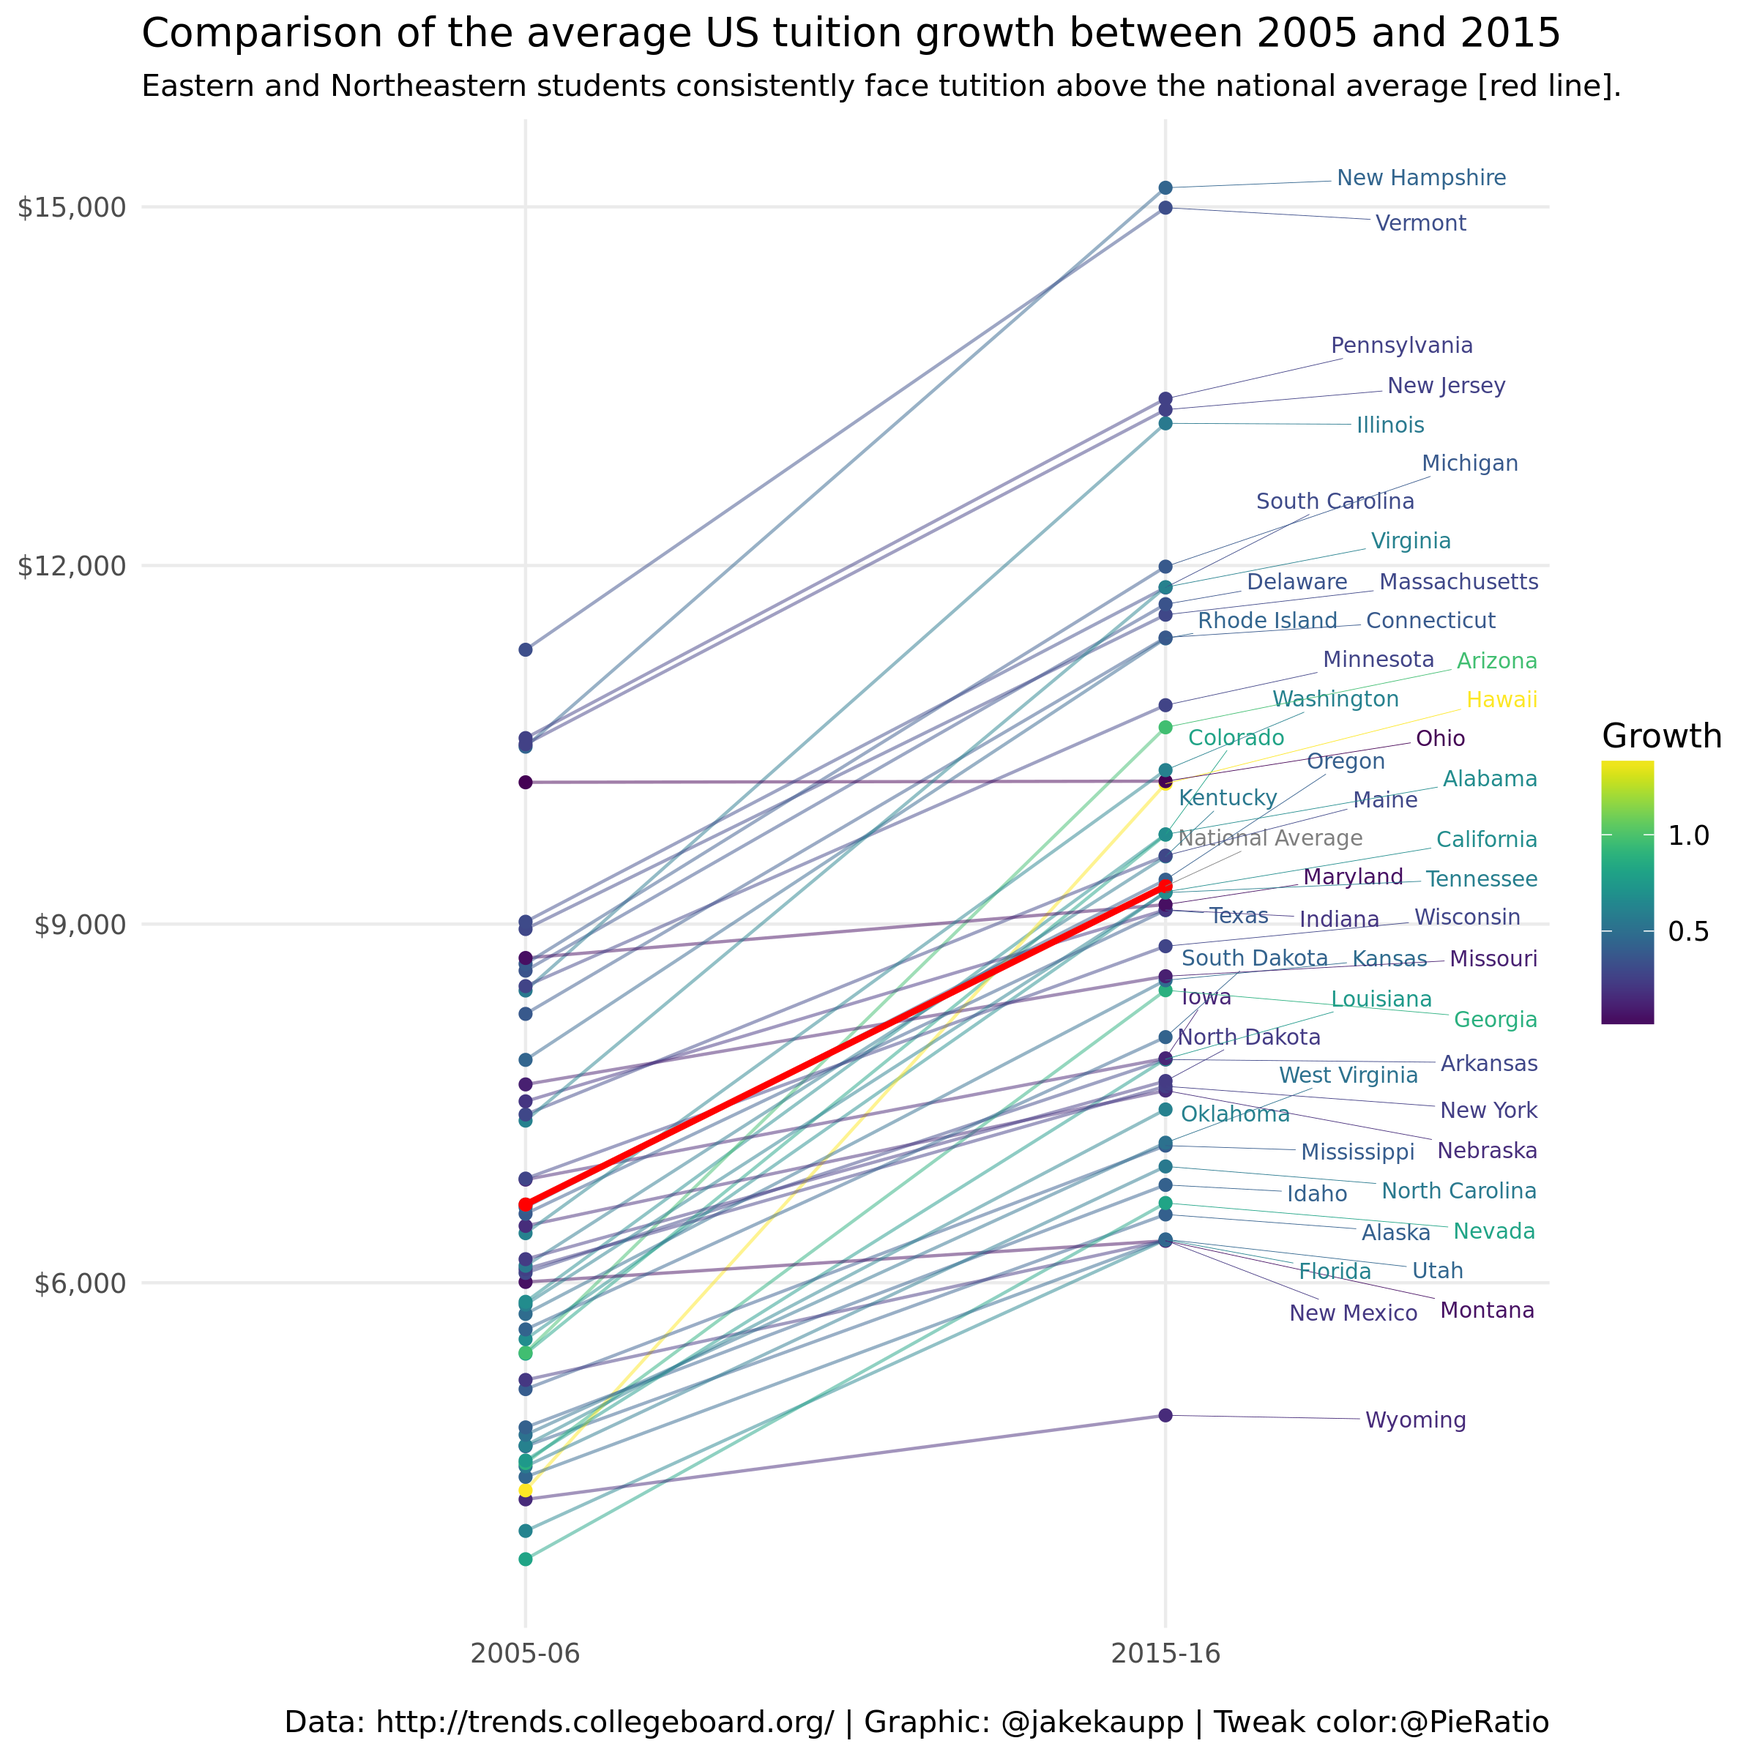
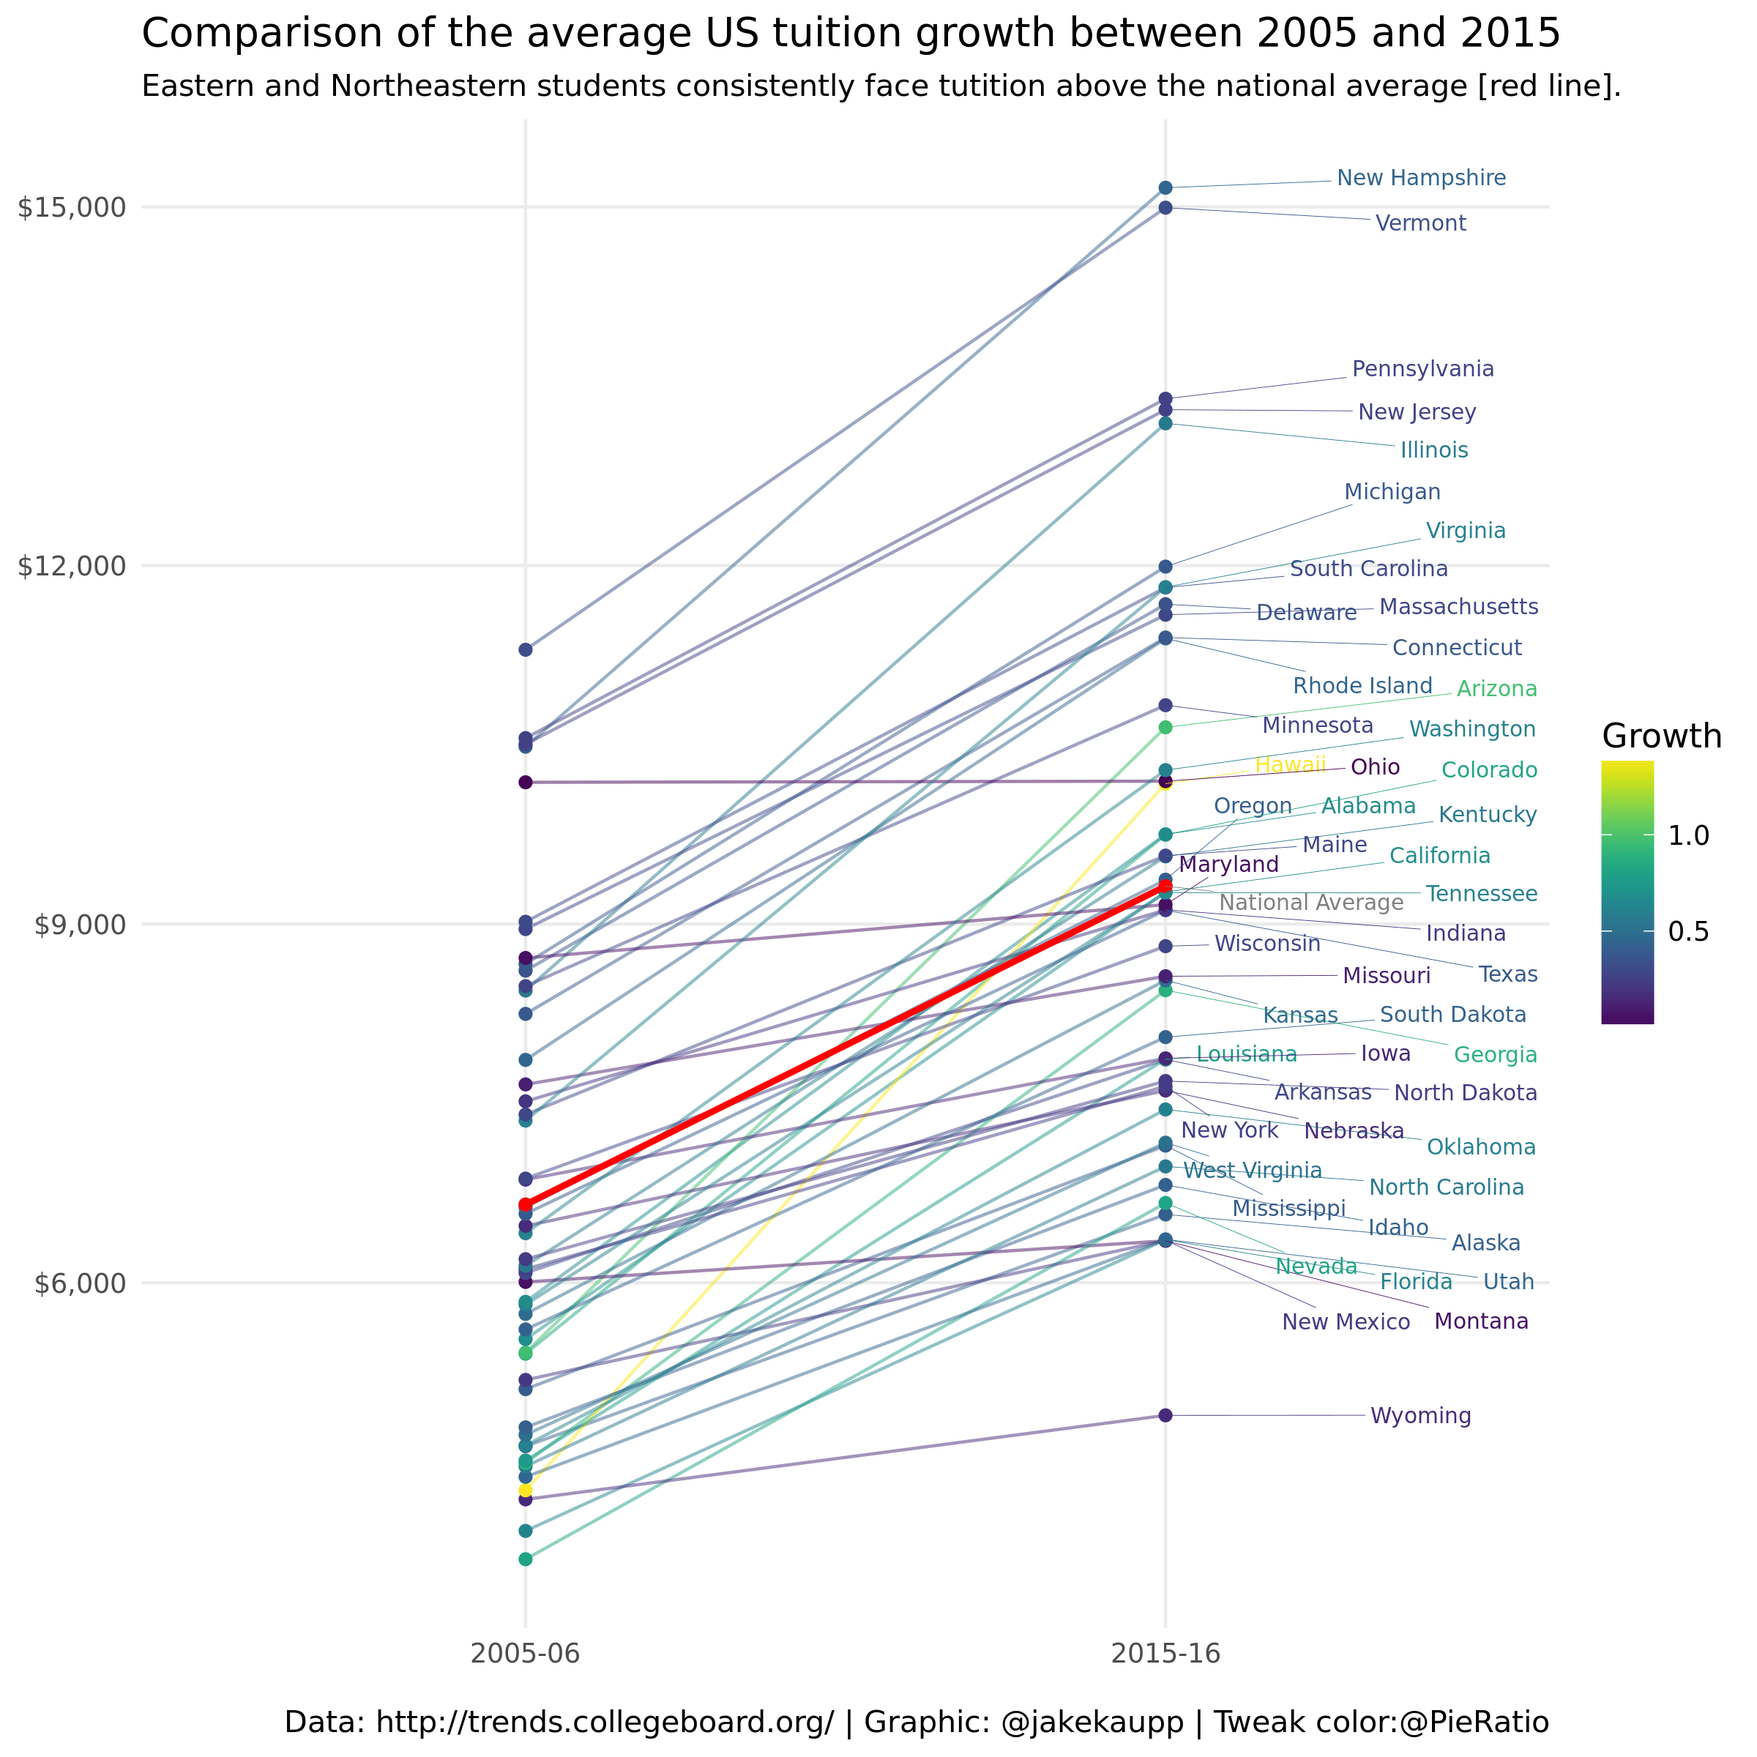
Fixed links and credit

Changed region(s): [[0.6562, 0.1875, 0.875, 0.75], [0.7812, 0.7812, 0.8438, 0.8125]]

diff --git a/public/post/tidytuesday-tuition/index.html b/public/post/tidytuesday-tuition/index.html
@@ -17,7 +17,7 @@
       
     
   
-  <meta name="description" content="I found a great example on tidyTuesday that I wanted to work on. A simple embedded line plot that uses color in a creative way. All of the R code for this is on GitHub. I did not add much. All I wanted was some idea of how the growth rates correspond over the period. I added a cumulative growth rate and encoded the color scheme with it enabling me to play with viridis.">
+  <meta name="description" content="I found a great example on tidyTuesday that I wanted to work on. @JKaupp Jake Kaupp used this very cool line plot to show the change in average tuition over a ten year period. I loved it. The only tweak is a simple embedded line plot that uses color in a creative way to show growth rates. All of the R code for this is on [@JKaupp-GitHub](https://github.com/jkaupp). The specific file is here.">
 
   
   <link rel="alternate" hreflang="en-us" href="https://rwalker.netlify.com/post/tidytuesday-tuition/">
@@ -81,7 +81,7 @@
   <meta property="og:site_name" content="Robert W. Walker">
   <meta property="og:url" content="https://rwalker.netlify.com/post/tidytuesday-tuition/">
   <meta property="og:title" content="tidyTuesday - Tuition | Robert W. Walker">
-  <meta property="og:description" content="I found a great example on tidyTuesday that I wanted to work on. A simple embedded line plot that uses color in a creative way. All of the R code for this is on GitHub. I did not add much. All I wanted was some idea of how the growth rates correspond over the period. I added a cumulative growth rate and encoded the color scheme with it enabling me to play with viridis.">
+  <meta property="og:description" content="I found a great example on tidyTuesday that I wanted to work on. @JKaupp Jake Kaupp used this very cool line plot to show the change in average tuition over a ten year period. I loved it. The only tweak is a simple embedded line plot that uses color in a creative way to show growth rates. All of the R code for this is on [@JKaupp-GitHub](https://github.com/jkaupp). The specific file is here.">
   <meta property="og:locale" content="en-us">
   
   <meta property="article:published_time" content="2018-04-03T00:00:00&#43;00:00">
@@ -341,7 +341,7 @@
 
 
     <div class="article-style" itemprop="articleBody">
-      <p>I found a great example on tidyTuesday that I wanted to work on. A simple embedded line plot that uses color in a creative way. All of the R code for this is on <a href="https://raw.githubusercontent.com/jkaupp/tidyweek/master/R/plot.R">GitHub</a>. I did not add much. All I wanted was some idea of how the growth rates correspond over the period. I added a cumulative growth rate and encoded the color scheme with it enabling me to play with <em>viridis</em>. The <em>col_tab</em> is my creation.</p>
+      <p>I found a great example on tidyTuesday that I wanted to work on. <code>@JKaupp</code> Jake Kaupp used this very cool line plot to show the change in average tuition over a ten year period. I loved it. The only tweak is a simple embedded line plot that uses color in a creative way to show growth rates. All of the R code for this is on <span class="citation">[@JKaupp-GitHub]</span>(<a href="https://github.com/jkaupp" class="uri">https://github.com/jkaupp</a>). The specific file is <a href="https://raw.githubusercontent.com/jkaupp/tidyweek/master/R/plot.R">here</a>. I did not add much. All I wanted was some idea of how the growth rates correspond over the period. I added a cumulative growth rate and encoded the color scheme with it enabling me to play with <em>viridis</em>. The <em>col_tab</em> is my creation. I also moved around the labels so that everyone gets a color coded label and we can see who is where, more or less. Enjoy!</p>
 <pre class="r"><code>library(here)
 library(readxl)
 library(tidyverse)
@@ -429,7 +429,7 @@ print(my.plot)</code></pre>
         
         <li><a href="/post/panel-data-r-packages/">Longitudinal Panel Data R Packages</a></li>
         
-        <li><a href="/post/correlation-function/">Correlation Function</a></li>
+        <li><a href="/post/black-boxes-a-gender-gap-example/">Black Boxes: A Gender Gap Example</a></li>
         
       </ul>
     </div>

diff --git a/content/post/2018-04-03-tidytuesday-tuition.html b/content/post/2018-04-03-tidytuesday-tuition.html
@@ -14,7 +14,7 @@ tags:
 
 
 
-<p>I found a great example on tidyTuesday that I wanted to work on. A simple embedded line plot that uses color in a creative way. All of the R code for this is on <a href="https://raw.githubusercontent.com/jkaupp/tidyweek/master/R/plot.R">GitHub</a>. I did not add much. All I wanted was some idea of how the growth rates correspond over the period. I added a cumulative growth rate and encoded the color scheme with it enabling me to play with <em>viridis</em>. The <em>col_tab</em> is my creation.</p>
+<p>I found a great example on tidyTuesday that I wanted to work on. <code>@JKaupp</code> Jake Kaupp used this very cool line plot to show the change in average tuition over a ten year period. I loved it. The only tweak is a simple embedded line plot that uses color in a creative way to show growth rates. All of the R code for this is on <span class="citation">[@JKaupp-GitHub]</span>(<a href="https://github.com/jkaupp" class="uri">https://github.com/jkaupp</a>). The specific file is <a href="https://raw.githubusercontent.com/jkaupp/tidyweek/master/R/plot.R">here</a>. I did not add much. All I wanted was some idea of how the growth rates correspond over the period. I added a cumulative growth rate and encoded the color scheme with it enabling me to play with <em>viridis</em>. The <em>col_tab</em> is my creation. I also moved around the labels so that everyone gets a color coded label and we can see who is where, more or less. Enjoy!</p>
 <pre class="r"><code>library(here)
 library(readxl)
 library(tidyverse)

diff --git a/public/categories/r/index.html b/public/categories/r/index.html
@@ -255,7 +255,7 @@
     <h2><a href="https://rwalker.netlify.com/post/tidytuesday-tuition/">tidyTuesday - Tuition</a></h2>
     <div class="article-style">
       
-      I found a great example on tidyTuesday that I wanted to work on. A simple embedded line plot that uses color in a creative way. All of the R code for this is on GitHub. I did not add much. All I wanted was some idea of how the growth rates correspond over the period. I added a cumulative growth rate and encoded the color scheme with it enabling me to play with viridis.
+      I found a great example on tidyTuesday that I wanted to work on. @JKaupp Jake Kaupp used this very cool line plot to show the change in average tuition over a ten year period. I loved it. The only tweak is a simple embedded line plot that uses color in a creative way to show growth rates. All of the R code for this is on <a href="https://github.com/jkaupp" target="_blank">@JKaupp-GitHub</a>. The specific file is here.
       
     </div>
   </div>

diff --git a/public/categories/tidyverse/index.html b/public/categories/tidyverse/index.html
@@ -255,7 +255,7 @@
     <h2><a href="https://rwalker.netlify.com/post/tidytuesday-tuition/">tidyTuesday - Tuition</a></h2>
     <div class="article-style">
       
-      I found a great example on tidyTuesday that I wanted to work on. A simple embedded line plot that uses color in a creative way. All of the R code for this is on GitHub. I did not add much. All I wanted was some idea of how the growth rates correspond over the period. I added a cumulative growth rate and encoded the color scheme with it enabling me to play with viridis.
+      I found a great example on tidyTuesday that I wanted to work on. @JKaupp Jake Kaupp used this very cool line plot to show the change in average tuition over a ten year period. I loved it. The only tweak is a simple embedded line plot that uses color in a creative way to show growth rates. All of the R code for this is on <a href="https://github.com/jkaupp" target="_blank">@JKaupp-GitHub</a>. The specific file is here.
       
     </div>
   </div>

diff --git a/public/tags/r/index.html b/public/tags/r/index.html
@@ -255,7 +255,7 @@
     <h2><a href="https://rwalker.netlify.com/post/tidytuesday-tuition/">tidyTuesday - Tuition</a></h2>
     <div class="article-style">
       
-      I found a great example on tidyTuesday that I wanted to work on. A simple embedded line plot that uses color in a creative way. All of the R code for this is on GitHub. I did not add much. All I wanted was some idea of how the growth rates correspond over the period. I added a cumulative growth rate and encoded the color scheme with it enabling me to play with viridis.
+      I found a great example on tidyTuesday that I wanted to work on. @JKaupp Jake Kaupp used this very cool line plot to show the change in average tuition over a ten year period. I loved it. The only tweak is a simple embedded line plot that uses color in a creative way to show growth rates. All of the R code for this is on <a href="https://github.com/jkaupp" target="_blank">@JKaupp-GitHub</a>. The specific file is here.
       
     </div>
   </div>

diff --git a/public/tags/tidytuesday/index.html b/public/tags/tidytuesday/index.html
@@ -255,7 +255,7 @@
     <h2><a href="https://rwalker.netlify.com/post/tidytuesday-tuition/">tidyTuesday - Tuition</a></h2>
     <div class="article-style">
       
-      I found a great example on tidyTuesday that I wanted to work on. A simple embedded line plot that uses color in a creative way. All of the R code for this is on GitHub. I did not add much. All I wanted was some idea of how the growth rates correspond over the period. I added a cumulative growth rate and encoded the color scheme with it enabling me to play with viridis.
+      I found a great example on tidyTuesday that I wanted to work on. @JKaupp Jake Kaupp used this very cool line plot to show the change in average tuition over a ten year period. I loved it. The only tweak is a simple embedded line plot that uses color in a creative way to show growth rates. All of the R code for this is on <a href="https://github.com/jkaupp" target="_blank">@JKaupp-GitHub</a>. The specific file is here.
       
     </div>
   </div>

diff --git a/public/tags/tidyverse/index.html b/public/tags/tidyverse/index.html
@@ -255,7 +255,7 @@
     <h2><a href="https://rwalker.netlify.com/post/tidytuesday-tuition/">tidyTuesday - Tuition</a></h2>
     <div class="article-style">
       
-      I found a great example on tidyTuesday that I wanted to work on. A simple embedded line plot that uses color in a creative way. All of the R code for this is on GitHub. I did not add much. All I wanted was some idea of how the growth rates correspond over the period. I added a cumulative growth rate and encoded the color scheme with it enabling me to play with viridis.
+      I found a great example on tidyTuesday that I wanted to work on. @JKaupp Jake Kaupp used this very cool line plot to show the change in average tuition over a ten year period. I loved it. The only tweak is a simple embedded line plot that uses color in a creative way to show growth rates. All of the R code for this is on <a href="https://github.com/jkaupp" target="_blank">@JKaupp-GitHub</a>. The specific file is here.
       
     </div>
   </div>

diff --git a/public/index.html b/public/index.html
@@ -1228,7 +1228,7 @@ url('https://rwalker.netlify.com/img/headers/bubbles-wide.jpg');
   </h3>
   <div class="article-style" itemprop="articleBody">
     
-    I found a great example on tidyTuesday that I wanted to work on. A simple embedded line plot that uses color in a creative way. All of the R code for this is on GitHub. I did not add much. All I wanted was some idea of how the growth rates correspond over the period. I added a cumulative growth rate and encoded the color scheme with it enabling me to play with viridis.
+    I found a great example on tidyTuesday that I wanted to work on. @JKaupp Jake Kaupp used this very cool line plot to show the change in average tuition over a ten year period. I loved it. The only tweak is a simple embedded line plot that uses color in a creative way to show growth rates. All of the R code for this is on [@JKaupp-GitHub](https://github.com/jkaupp). The specific file is here.
     
   </div>
   <p class="read-more" itemprop="mainEntityOfPage">

diff --git a/public/post/index.html b/public/post/index.html
@@ -299,7 +299,7 @@
   </h3>
   <div class="article-style" itemprop="articleBody">
     
-    I found a great example on tidyTuesday that I wanted to work on. A simple embedded line plot that uses color in a creative way. All of the R code for this is on GitHub. I did not add much. All I wanted was some idea of how the growth rates correspond over the period. I added a cumulative growth rate and encoded the color scheme with it enabling me to play with viridis.
+    I found a great example on tidyTuesday that I wanted to work on. @JKaupp Jake Kaupp used this very cool line plot to show the change in average tuition over a ten year period. I loved it. The only tweak is a simple embedded line plot that uses color in a creative way to show growth rates. All of the R code for this is on [@JKaupp-GitHub](https://github.com/jkaupp). The specific file is here.
     
   </div>
   <p class="read-more" itemprop="mainEntityOfPage">

diff --git a/public/post/pew-data-on-bond-ratings-and-rainy-day-funds/index.html b/public/post/pew-data-on-bond-ratings-and-rainy-day-funds/index.html
@@ -553,9 +553,9 @@ XTSUM(nlswork, varname=hours, unit=idcode)</code></pre>
         
         <li><a href="/post/mapping-with-the-government-finance-database/">Mapping with the Government Finance Database</a></li>
         
-        <li><a href="/post/black-boxes-a-gender-gap-example/">Black Boxes: A Gender Gap Example</a></li>
-        
         <li><a href="/post/correlation-function/">Correlation Function</a></li>
+        
+        <li><a href="/post/black-boxes-a-gender-gap-example/">Black Boxes: A Gender Gap Example</a></li>
         
         <li><a href="/post/tidytext-is-neat/">tidytext is neat! White House Communications</a></li>
         

diff --git a/public/post/mapping-with-the-government-finance-database/index.html b/public/post/mapping-with-the-government-finance-database/index.html
@@ -798,9 +798,9 @@ county_choropleth(my.County.GFD.2015, title=&quot;General Revenue per capita&quo
         
         <li><a href="/post/panel-data-r-packages/">Longitudinal Panel Data R Packages</a></li>
         
-        <li><a href="/post/correlation-function/">Correlation Function</a></li>
-        
         <li><a href="/post/black-boxes-a-gender-gap-example/">Black Boxes: A Gender Gap Example</a></li>
+        
+        <li><a href="/post/correlation-function/">Correlation Function</a></li>
         
         <li><a href="/post/tidytext-is-neat/">tidytext is neat! White House Communications</a></li>
         

diff --git a/public/post/panel-data-r-packages/index.html b/public/post/panel-data-r-packages/index.html
@@ -550,9 +550,9 @@ XTSUM(nlswork, varname=hours, unit=idcode)</code></pre>
       <h3>Related</h3>
       <ul>
         
-        <li><a href="/post/correlation-function/">Correlation Function</a></li>
-        
         <li><a href="/post/black-boxes-a-gender-gap-example/">Black Boxes: A Gender Gap Example</a></li>
+        
+        <li><a href="/post/correlation-function/">Correlation Function</a></li>
         
         <li><a href="/post/tidytext-is-neat/">tidytext is neat! White House Communications</a></li>
         
